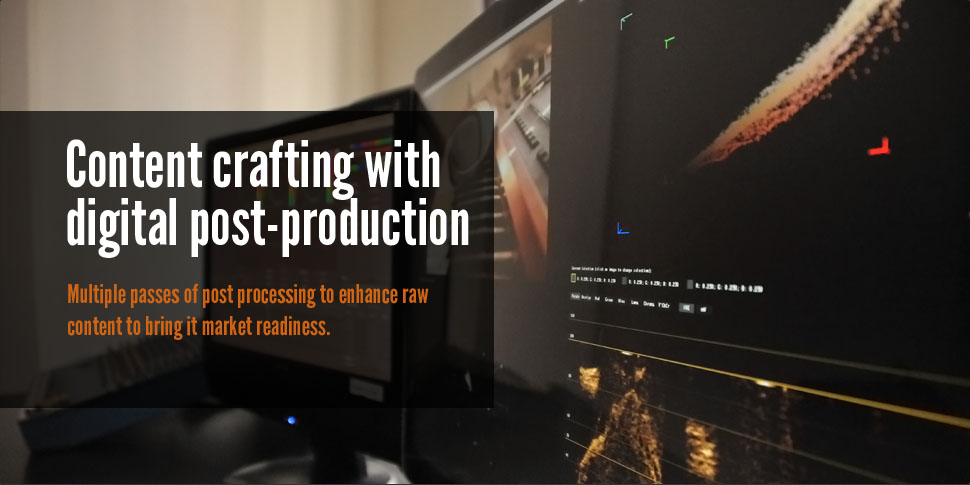
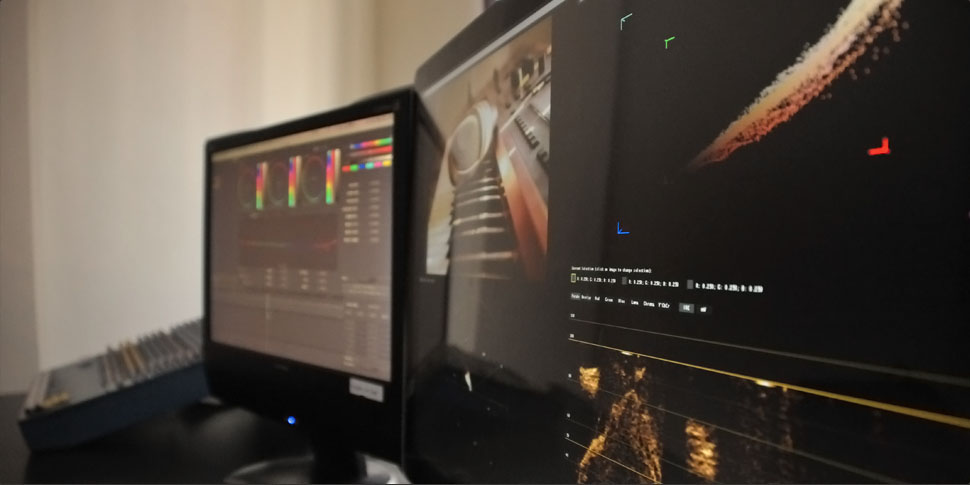
Remove hardcoded image captions, show markup captions

Changed region(s): [[0.0, 0.2165, 0.5258, 0.866]]

diff --git a/index.html b/index.html
@@ -49,28 +49,28 @@
 	  <ul data-orbit data-options="timer_speed:500; animation_speed:500;" id="featuredContent" class="centered">
 	    <li>
 	      <img src="images/main-slides/s1.jpg" alt="Content acquisation image">
-	      <div class="orbit-caption" id="captionOne" style="display: none;">
+	      <div class="orbit-caption" id="captionOne">
 		<h1 class="title">Content Acquisition in HD and Beyond</h1>
 		<p class="body">Content Delivery has always been constrained by bandwidth limitations. Your content should be future safe and platform independent.</p>
 	      </div>
 	    </li>
 	    <li>
 	      <img src="images/main-slides/s2.jpg" alt="Post production image">
-	      <div class="orbit-caption" id="captionTwo" style="display: none;">
+	      <div class="orbit-caption" id="captionTwo">
 		<h1 class="title">Content Crafting with Digital Post Production</h1>
 		<p class="body">Multiple passes of post processing to enhance raw content to bring it market readiness.</p>
 	      </div>
 	    </li>
 	    <li>
 	      <img src="images/main-slides/s3.jpg" alt="Creative audio image">
-	      <div class="orbit-caption" id="captionThree" style="display: none;">
+	      <div class="orbit-caption" id="captionThree">
 		<h1 class="title">Creative Audio Production content enhancement</h1>
 		<p class="body">Content should not only be ‘seen-and-not-heard', bring your content to life with creative audio production.</p>
 	      </div>
 	    </li>
 	    <li>
 	      <img src="images/main-slides/s4.jpg" alt="Content delivery image">
-	      <div class="orbit-caption" id="captionFour" style="display: none;">
+	      <div class="orbit-caption" id="captionFour">
 		<h1 class="title">Content delivery across the media landscape</h1>
 		<p class="body"> High quality content needs to be leveraged to create customized, rich media solutions for every platform to bring it to a cost-effective manner to the end-users.</p>
 	      </div>
